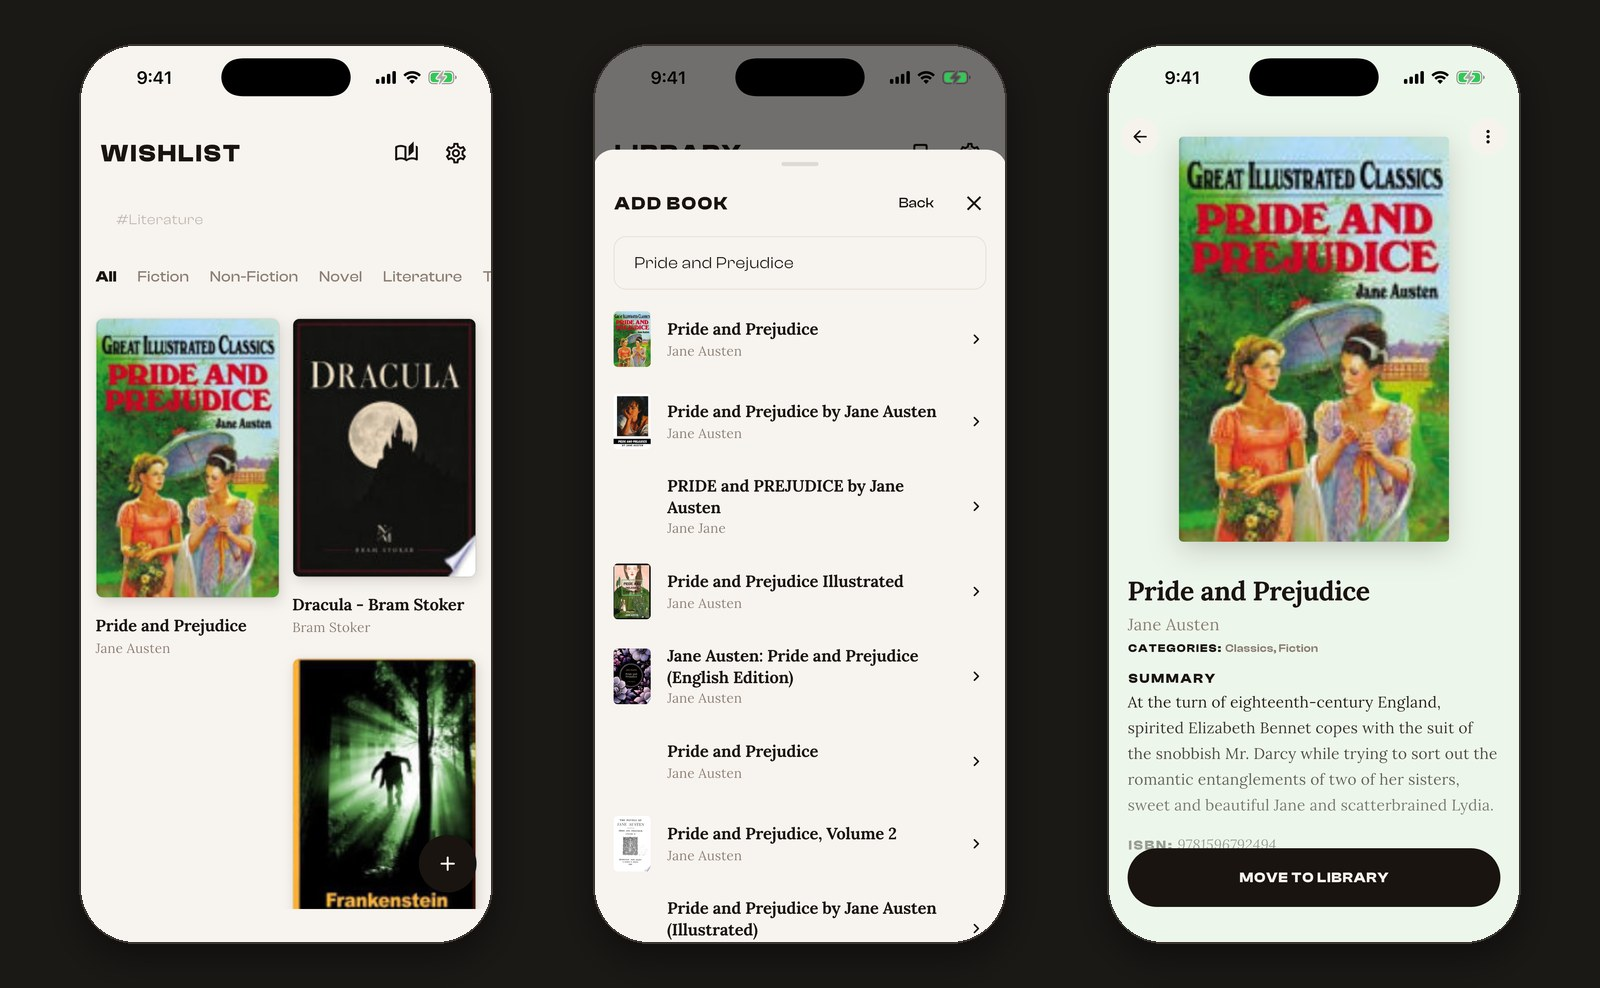
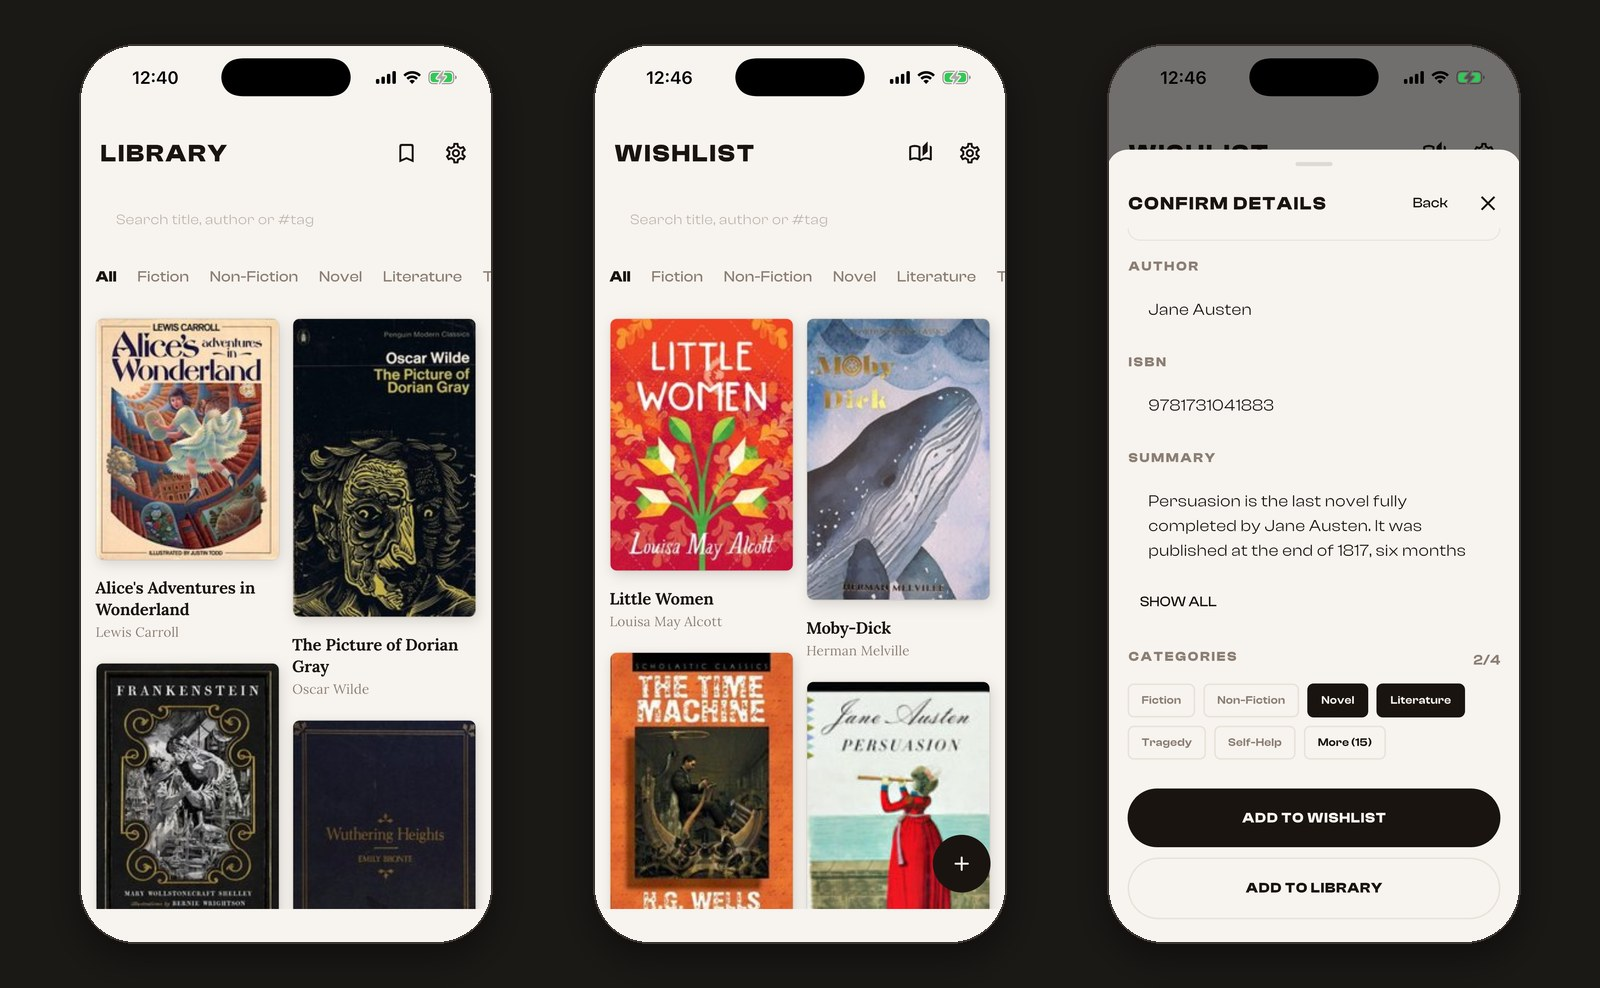
DOCS: Refresh the collage

diff --git a/README.md b/README.md
@@ -2,7 +2,7 @@
 
 I made this for one question in a bookstore with no signal: do I already own this book? DRAFT keeps your books on the phone, searches them offline, and fills in covers and summaries from Google Books when there is a connection.
 
-![DRAFT on an iPhone: the wishlist as a staggered grid of covers, the Google Books lookup, and a book page tinted with a colour taken from its cover](docs/collage.jpg)
+![DRAFT on an iPhone: the Library and Wishlist shelves as staggered grids of covers, and the add-book sheet with its Add to Wishlist and Add to Library buttons](docs/collage.jpg)
 
 ![Flutter](https://img.shields.io/badge/Flutter-3-02569B?logo=flutter&logoColor=white)
 ![Dart](https://img.shields.io/badge/Dart-3.10-0175C2?logo=dart&logoColor=white)
